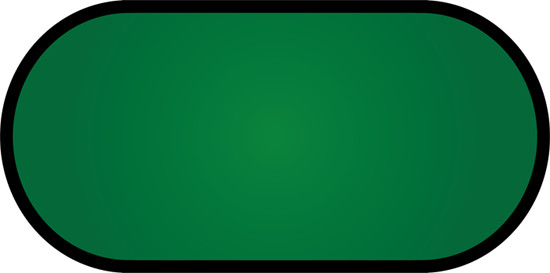
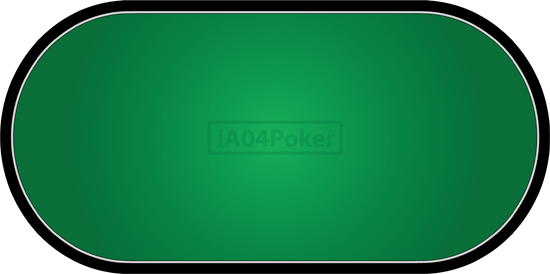
IMH background, button, slide & token

diff --git a/ia04_project/poker/src/gui/player/application.css b/ia04_project/poker/src/gui/player/application.css
@@ -1,3 +1,8 @@
-.root {
-    -fx-background-image: url("images/as_carreau.png") repeat;
+
+#root {
+-fx-background-image:url('../../images/background.png');
+}
+
+.pseudo {
+	-fx-text-fill: white;
 }

diff --git a/ia04_project/poker/src/gui/player/TokenPlayerIHM.java b/ia04_project/poker/src/gui/player/TokenPlayerIHM.java
@@ -1,0 +1,58 @@
+package gui.player;
+
+import javafx.scene.Group;
+import javafx.scene.control.Label;
+import javafx.scene.image.Image;
+import javafx.scene.image.ImageView;
+import javafx.scene.paint.Color;
+import javafx.scene.shape.Circle;
+import javafx.scene.shape.Rectangle;
+
+public class TokenPlayerIHM extends Group {
+	
+	private static final String img_token_white = "images/chip_white.png";
+	private static final String img_token_black = "images/chip_black.png";
+	private static final String img_token_blue = "images/chip_blue.png";
+	private static final String img_token_green = "images/chip_green.png";
+	private static final String img_token_red = "images/chip_red.png";
+	
+	public enum ColorToken { WHITE, BLACK, BLUE, GREEN, RED }
+	public TokenPlayerIHM(int x, int y, int mise, ColorToken color_token)
+	{
+		
+		Label label_mise = new Label(String.valueOf(mise));
+		label_mise.setLayoutX(x);
+		label_mise.setLayoutY(y);
+		
+		String image = "";
+		switch(color_token)
+		{
+			case WHITE:
+				image = img_token_white;
+				break;
+			case BLACK:
+				image = img_token_black;
+				break;
+			case BLUE:
+				image = img_token_blue;
+				break;
+			case GREEN:
+				image = img_token_green;
+				break;
+			case RED:
+				image = img_token_red;
+				break;
+			default:
+				image = img_token_white;
+		}
+		
+		ImageView jeton = new ImageView(new Image(image));
+        jeton.setX(x-10);
+        jeton.setY(y-10);
+        jeton.setFitWidth(20);
+        jeton.setFitHeight(20);
+	    
+        this.getChildren().add(jeton);
+		this.getChildren().add(label_mise);
+	}
+}

diff --git a/ia04_project/poker/src/sma/agent/HumanPlayerAgent.java b/ia04_project/poker/src/sma/agent/HumanPlayerAgent.java
@@ -8,7 +8,7 @@ import java.beans.PropertyChangeListener;
 import java.beans.PropertyChangeSupport;
 
 import sma.agent.helper.AgentHelper;
-import sma.agent.helper.DFservicehelper;
+import sma.agent.helper.DFServiceHelper;
 import jade.core.Agent;
 import jade.gui.GuiAgent;
 import jade.gui.GuiEvent;
@@ -21,7 +21,7 @@ public class HumanPlayerAgent extends GuiAgent {
 	{
 		super.setup();
 
-		DFservicehelper.registerService(this, "PokerSimulation","HumanPlayer");
+		DFServiceHelper.registerService(this, "PokerSimulation","HumanPlayer");
 		
 		PlayerWindow player_window = new PlayerWindow();
 		player_window.setHumanPlayerAgent(this);

diff --git a/ia04_project/poker/src/gui/player/PersoIHM.java b/ia04_project/poker/src/gui/player/PersoIHM.java
@@ -18,6 +18,7 @@ public class PersoIHM extends Group {
 		circle.setCenterY(y);
 		
 		Label name = new Label(pseudo);
+		name.getStyleClass().add("pseudo");
 		
 		if(position.equals(Sens.HAUT))
 		{
